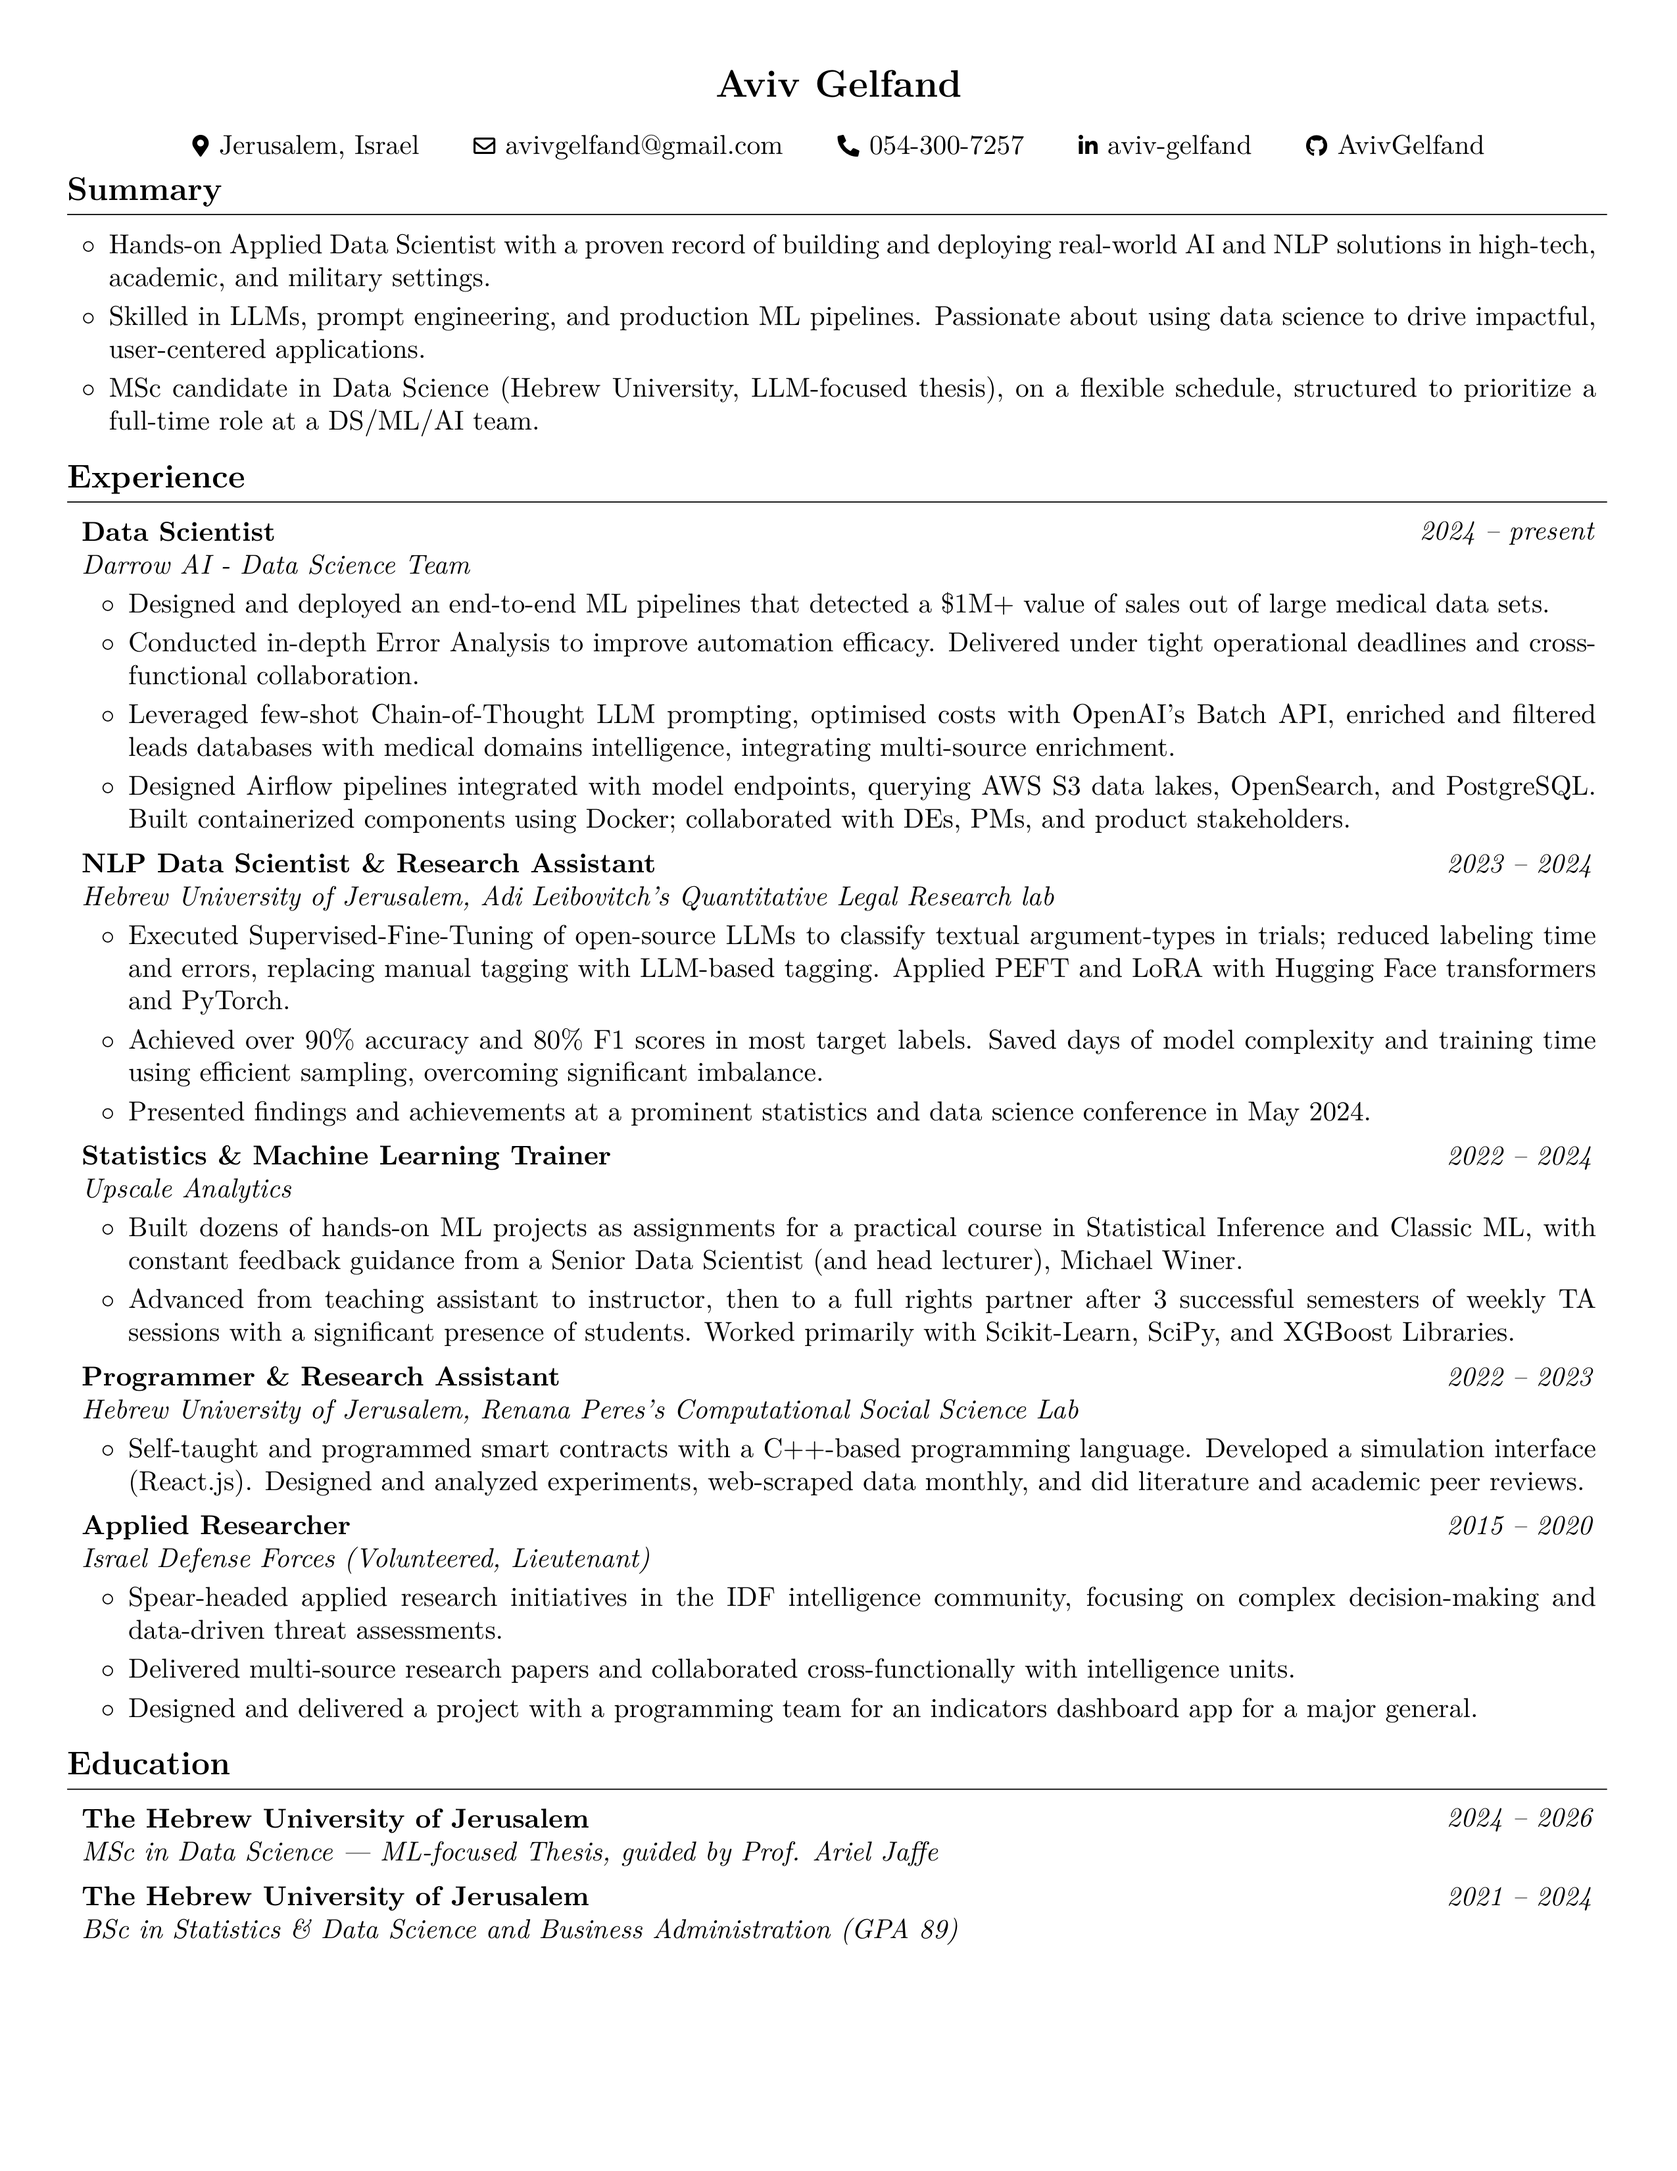
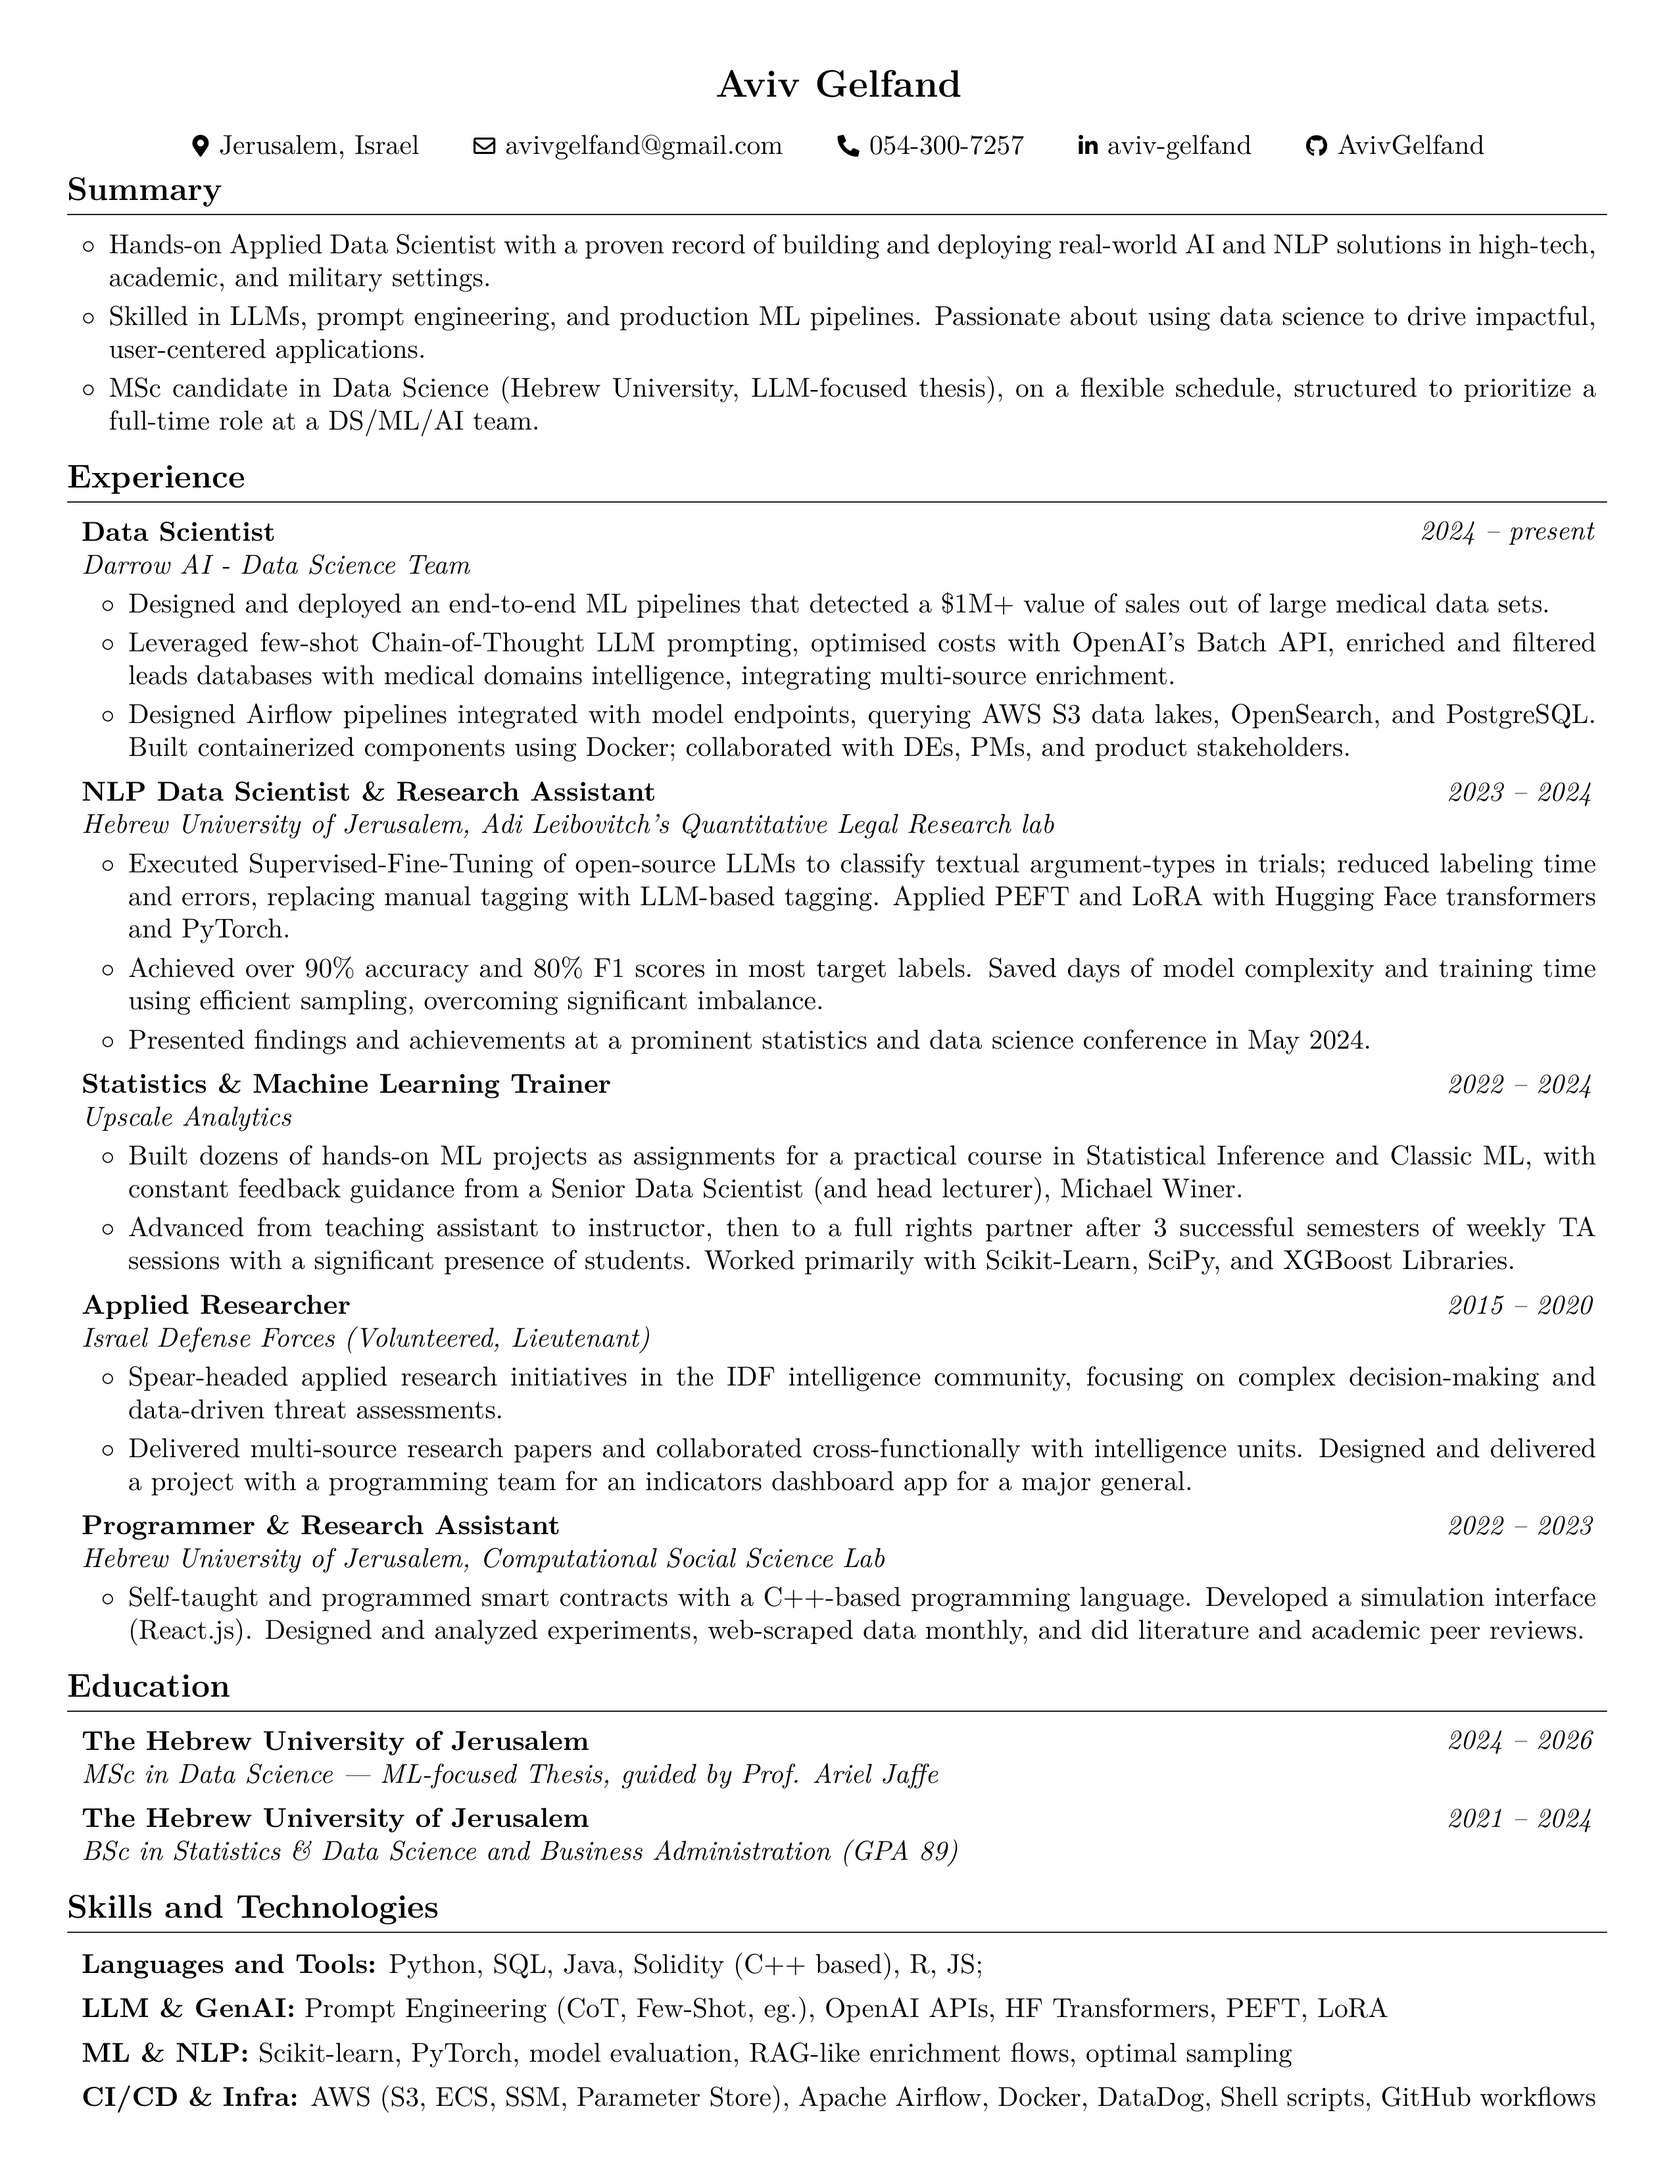
Render the latest CV

diff --git a/Aviv_Gelfand_CV.html b/Aviv_Gelfand_CV.html
@@ -51,7 +51,6 @@
         <ul>
         <li>2024 – present</li>
         <li>Designed and deployed an end-to-end ML pipelines that detected a \$1M+ value of sales out of large medical data sets.</li>
-        <li>Conducted in-depth Error Analysis to improve automation efficacy. Delivered under tight operational deadlines and cross-functional collaboration.</li>
         <li>Leveraged few-shot Chain-of-Thought LLM prompting, optimised costs with OpenAI’s Batch API, enriched and filtered leads databases with medical domains intelligence, integrating multi-source enrichment.</li>
         <li>Designed Airflow pipelines integrated with model endpoints, querying AWS S3 data lakes, OpenSearch, and PostgreSQL. Built containerized components using Docker; collaborated with DEs, PMs, and product stakeholders.</li>
         </ul>
@@ -68,17 +67,16 @@
         <li>Built dozens of hands-on ML projects as assignments for a practical course in Statistical Inference and Classic ML, with constant feedback guidance from a Senior Data Scientist (and head lecturer), Michael Winer.</li>
         <li>Advanced from teaching assistant to instructor, then to a full rights partner after 3 successful semesters of weekly TA sessions with a significant presence of students. Worked primarily with Scikit-Learn, SciPy, and XGBoost Libraries.</li>
         </ul>
-        <h2>Hebrew University of Jerusalem, Renana Peres's Computational Social Science Lab, Programmer &amp; Research Assistant</h2>
-        <ul>
-        <li>2022 – 2023</li>
-        <li>Self-taught and programmed smart contracts with a C++-based programming language. Developed a simulation interface (React.js). Designed and analyzed experiments, web-scraped data monthly, and did literature and academic peer reviews.</li>
-        </ul>
         <h2>Israel Defense Forces (Volunteered, Lieutenant), Applied Researcher</h2>
         <ul>
         <li>2015 – 2020</li>
         <li>Spear-headed applied research initiatives in the IDF intelligence community, focusing on complex decision-making and data-driven threat assessments.</li>
-        <li>Delivered multi-source research papers and collaborated cross-functionally with intelligence units.</li>
-        <li>Designed and delivered a project with a programming team for an indicators dashboard app for a major general.</li>
+        <li>Delivered multi-source research papers and collaborated cross-functionally with intelligence units. Designed and delivered a project with a programming team for an indicators dashboard app for a major general.</li>
+        </ul>
+        <h2>Hebrew University of Jerusalem, Computational Social Science Lab, Programmer &amp; Research Assistant</h2>
+        <ul>
+        <li>2022 – 2023</li>
+        <li>Self-taught and programmed smart contracts with a C++-based programming language. Developed a simulation interface (React.js). Designed and analyzed experiments, web-scraped data monthly, and did literature and academic peer reviews.</li>
         </ul>
         <h1>Education</h1>
         <h2>The Hebrew University of Jerusalem, MSc in Data Science | ML-focused Thesis, guided by Prof. Ariel Jaffe</h2>

diff --git a/Aviv_Gelfand_CV.tex b/Aviv_Gelfand_CV.tex
@@ -209,7 +209,6 @@
         \begin{onecolentry}
             \begin{highlights}
                 \item Designed and deployed an end-to-end ML pipelines that detected a \$1M+ value of sales out of large medical data sets.
-                \item Conducted in-depth Error Analysis to improve automation efficacy. Delivered under tight operational deadlines and cross-functional collaboration.
                 \item Leveraged few-shot Chain-of-Thought LLM prompting, optimised costs with OpenAI’s Batch API, enriched and filtered leads databases with medical domains intelligence, integrating multi-source enrichment.
                 \item Designed Airflow pipelines integrated with model endpoints, querying AWS S3 data lakes, OpenSearch, and PostgreSQL. Built containerized components using Docker; collaborated with DEs, PMs, and product stakeholders.
             \end{highlights}
@@ -262,25 +261,6 @@
         \begin{twocolentry}{
             
             
-        \textit{2022 – 2023}}
-            \textbf{Programmer \& Research Assistant}
-            
-            \textit{Hebrew University of Jerusalem, Renana Peres's Computational Social Science Lab}
-        \end{twocolentry}
-
-        \vspace{0.08 cm}
-        \begin{onecolentry}
-            \begin{highlights}
-                \item Self-taught and programmed smart contracts with a C++-based programming language. Developed a simulation interface (React.js). Designed and analyzed experiments, web-scraped data monthly, and did literature and academic peer reviews.
-            \end{highlights}
-        \end{onecolentry}
-
-
-        \vspace{0.15 cm}
-
-        \begin{twocolentry}{
-            
-            
         \textit{2015 – 2020}}
             \textbf{Applied Researcher}
             
@@ -291,8 +271,26 @@
         \begin{onecolentry}
             \begin{highlights}
                 \item Spear-headed applied research initiatives in the IDF intelligence community, focusing on complex decision-making and data-driven threat assessments.
-                \item Delivered multi-source research papers and collaborated cross-functionally with intelligence units.
-                \item Designed and delivered a project with a programming team for an indicators dashboard app for a major general.
+                \item Delivered multi-source research papers and collaborated cross-functionally with intelligence units. Designed and delivered a project with a programming team for an indicators dashboard app for a major general.
+            \end{highlights}
+        \end{onecolentry}
+
+
+        \vspace{0.15 cm}
+
+        \begin{twocolentry}{
+            
+            
+        \textit{2022 – 2023}}
+            \textbf{Programmer \& Research Assistant}
+            
+            \textit{Hebrew University of Jerusalem, Computational Social Science Lab}
+        \end{twocolentry}
+
+        \vspace{0.08 cm}
+        \begin{onecolentry}
+            \begin{highlights}
+                \item Self-taught and programmed smart contracts with a C++-based programming language. Developed a simulation interface (React.js). Designed and analyzed experiments, web-scraped data monthly, and did literature and academic peer reviews.
             \end{highlights}
         \end{onecolentry}
 

diff --git a/README.md b/README.md
@@ -20,7 +20,6 @@
 
 - 2024 – present
 - Designed and deployed an end-to-end ML pipelines that detected a \$1M+ value of sales out of large medical data sets.
-- Conducted in-depth Error Analysis to improve automation efficacy. Delivered under tight operational deadlines and cross-functional collaboration.
 - Leveraged few-shot Chain-of-Thought LLM prompting, optimised costs with OpenAI’s Batch API, enriched and filtered leads databases with medical domains intelligence, integrating multi-source enrichment.
 - Designed Airflow pipelines integrated with model endpoints, querying AWS S3 data lakes, OpenSearch, and PostgreSQL. Built containerized components using Docker; collaborated with DEs, PMs, and product stakeholders.
 
@@ -37,17 +36,16 @@
 - Built dozens of hands-on ML projects as assignments for a practical course in Statistical Inference and Classic ML, with constant feedback guidance from a Senior Data Scientist (and head lecturer), Michael Winer.
 - Advanced from teaching assistant to instructor, then to a full rights partner after 3 successful semesters of weekly TA sessions with a significant presence of students. Worked primarily with Scikit-Learn, SciPy, and XGBoost Libraries.
 
-## Hebrew University of Jerusalem, Renana Peres's Computational Social Science Lab, Programmer & Research Assistant
-
-- 2022 – 2023
-- Self-taught and programmed smart contracts with a C++-based programming language. Developed a simulation interface (React.js). Designed and analyzed experiments, web-scraped data monthly, and did literature and academic peer reviews.
-
 ## Israel Defense Forces (Volunteered, Lieutenant), Applied Researcher
 
 - 2015 – 2020
 - Spear-headed applied research initiatives in the IDF intelligence community, focusing on complex decision-making and data-driven threat assessments.
-- Delivered multi-source research papers and collaborated cross-functionally with intelligence units.
-- Designed and delivered a project with a programming team for an indicators dashboard app for a major general.
+- Delivered multi-source research papers and collaborated cross-functionally with intelligence units. Designed and delivered a project with a programming team for an indicators dashboard app for a major general.
+
+## Hebrew University of Jerusalem, Computational Social Science Lab, Programmer & Research Assistant
+
+- 2022 – 2023
+- Self-taught and programmed smart contracts with a C++-based programming language. Developed a simulation interface (React.js). Designed and analyzed experiments, web-scraped data monthly, and did literature and academic peer reviews.
 
 # Education
 
